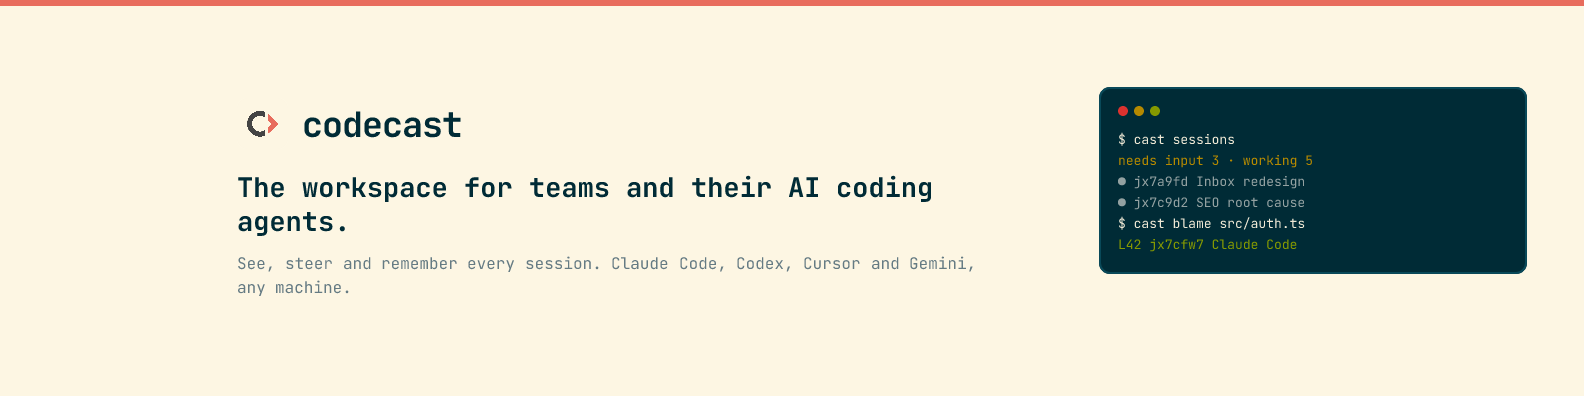
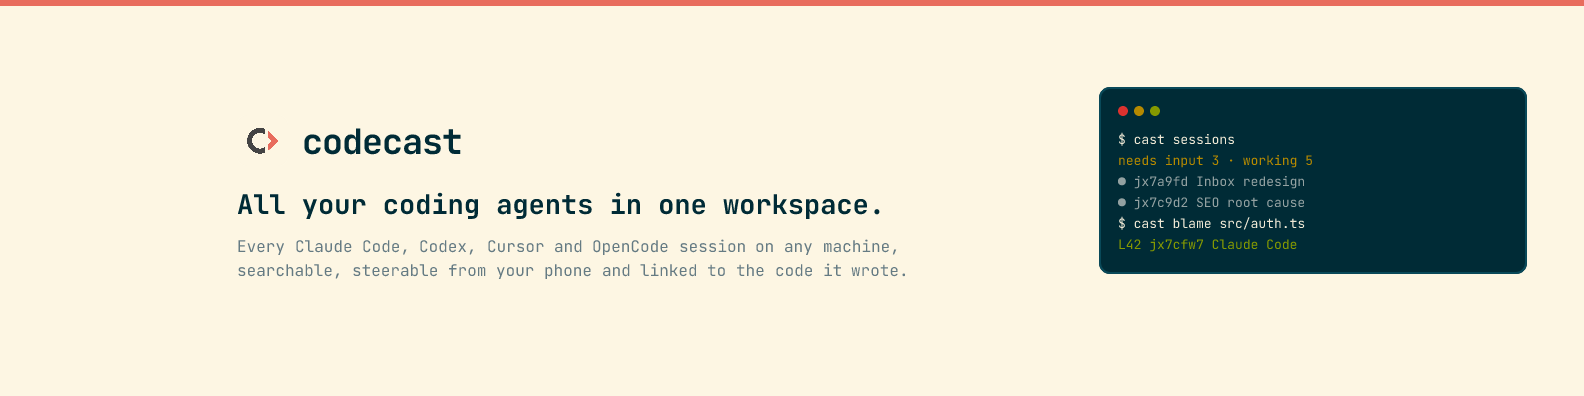
feat(web): marketing pages and public assets

Changed region(s): [[0.1547, 0.4545, 0.6187, 0.7576], [0.1547, 0.2727, 0.3093, 0.3939]]

diff --git a/packages/web/app/(marketing)/page.tsx b/packages/web/app/(marketing)/page.tsx
@@ -198,7 +198,7 @@ export default function LandingPage() {
           </h1>
 
           <p className="text-[15px] leading-[1.75] mb-8 lg:-mx-24" style={{ color: '#657b83' }}>
-            Every session from <span className="whitespace-nowrap"><Highlight color="amber">Claude Code</Highlight>,</span> <span className="whitespace-nowrap"><Highlight color="green">Codex</Highlight>,</span> <span className="whitespace-nowrap"><Highlight color="blue">Cursor</Highlight>,</span> <Highlight color="violet">OpenCode</Highlight> and <Highlight color="cyan">pi</Highlight>, on any machine, in one place you can search and steer from your phone, each linked to the code it wrote. Bring your team in and your agents work beside you in chat, calls, tasks, docs and pull requests.
+            <span className="whitespace-nowrap"><Highlight color="amber">Claude Code</Highlight>,</span> <span className="whitespace-nowrap"><Highlight color="green">Codex</Highlight>,</span> <span className="whitespace-nowrap"><Highlight color="blue">Cursor</Highlight>,</span> <Highlight color="violet">OpenCode</Highlight> and <Highlight color="cyan">pi</Highlight>, on any machine, in one place you can search and steer from your phone, each linked to the code it wrote. Bring your team in and your agents work beside you in <span className="whitespace-nowrap"><Highlight color="rose">chat</Highlight>,</span> <span className="whitespace-nowrap"><Highlight color="blue">calls</Highlight>,</span> <span className="whitespace-nowrap"><Highlight color="green">tasks</Highlight>,</span> <Highlight color="violet">docs</Highlight> and <span className="whitespace-nowrap"><Highlight color="amber">pull requests</Highlight>.</span>
           </p>
           <div className="max-w-xl mx-auto mb-2">
             <div className="relative">

diff --git a/packages/web/app/(marketing)/TourFilm.tsx b/packages/web/app/(marketing)/TourFilm.tsx
@@ -3,12 +3,14 @@
 import { useRef, useState } from "react";
 import { track } from "@/lib/analytics";
 import { useWatchEffect } from "@/hooks/useWatchEffect";
+import { loadCastPlayer } from "@/lib/loadCastPlayer";
+import { MEDIA_ORIGIN } from "@codecast/shared/contracts/castPlayer";
 import { DOTS } from "./chapterDots";
 
 // The hand drawn tour (videos/codecast-explainer), hosted on media.codecast.sh
 // and played by the same <cast-player> published pages use. One chapter per
 // file; the player runs them back to back as one film.
-const MEDIA = "https://media.codecast.sh/media/";
+const MEDIA = `${MEDIA_ORIGIN}/media/`;
 const TOUR_CHAPTERS = [
[2 lines of base64/hex data omitted]
@@ -35,16 +37,6 @@ type CastPlayerEl = HTMLElement & {
 
 // The one film on the page. Links further down ("watch this part") reach it here.
 let film: CastPlayerEl | null = null;
-
-// The element's code, served same-origin by plugins/castPlayerScript.ts. The
-// element upgrades itself whenever the script lands, before or after mount.
-function loadCastPlayer() {
-  if (customElements.get("cast-player") || document.querySelector('script[src="/cast-player.js"]')) return;
-  const s = document.createElement("script");
-  s.src = "/cast-player.js";
-  s.async = true;
-  document.head.appendChild(s);
-}
 
 function clock(t: number): string {
   return `${Math.floor(t / 60)}:${String(Math.floor(t % 60)).padStart(2, "0")}`;

diff --git a/packages/web/app/(marketing)/features/catalog.ts b/packages/web/app/(marketing)/features/catalog.ts
@@ -36,6 +36,9 @@ export const FEATURE_DEEP_DIVES: FeatureDeepDive[] = [
   { slug: "memory", snippet: "memory", name: "Team memory", color: "#6c71c4",
     title: "Team memory: every agent reads what every other agent learned",
     dek: "Search, ask and blame across every session your team has run, so an agent starts from the decisions already made instead of rediscovering them." },
+  { slug: "flows", name: "Flows", color: "#2aa198",
+    title: "Flows: every change takes the same path to production",
+    dek: "Your session's changes and the ones agents make from production signals pass the same checks, land, deploy and get watched the same way, and a measured regret-free rate decides how much an agent may merge on its own." },
   { slug: "decisions", snippet: "decide", name: "Decisions", color: "#b58900",
     title: "Decisions: one queue for the calls only you can make",
     dek: "Agents queue the choices that need a person, with the evidence attached, and keep working while you clear the queue in one sitting." },

diff --git a/packages/web/app/(marketing)/heroFly/chapters/publish.tsx b/packages/web/app/(marketing)/heroFly/chapters/publish.tsx
@@ -18,7 +18,6 @@ import { FilmSwap } from "../film";
 import { PAGE, PUBLISH, REPLY } from "../fixtures/publish";
 import { SESSIONS } from "../fixtures/story";
 
-const noop = () => {};
 const TOOL_ID = "hero-tool-publish";
 const TOOL_CALLS = [{ id: TOOL_ID, name: "Bash", input: JSON.stringify({ command: REPLY.command, description: "Publish the report as a page" }) }];
 const TOOL_RESULTS = [{ tool_use_id: TOOL_ID, content: REPLY.output }];
@@ -60,7 +59,7 @@ function Page() {
       <FramelessPage
         title={PAGE.title}
         href={`https://${PAGE.url}`}
-        actions={<PublishedPageActions slug={PAGE.slug} expanded={false} onToggleExpand={noop} />}
+        actions={<PublishedPageActions slug={PAGE.slug} />}
         height={500}
         loaded
       >

diff --git a/packages/web/app/(marketing)/heroFly/chapters/inbox.tsx b/packages/web/app/(marketing)/heroFly/chapters/inbox.tsx
@@ -72,7 +72,7 @@ export function DeskRail(_: PartProps) {
         <SidebarNavView
           isNarrow={false}
           threads={<ThreadsNavRowView isActive={false} isNarrow={false} unread={0} />}
-          feed={<FeedNavRowView team={TEAM_CHIP} isActive={false} isNarrow={false} unread={RAIL.feedUnread} />}
+          feed={<FeedNavRowView team={TEAM_CHIP} isActive={false} isNarrow={false} />}
           // The decision's queue entry opens its own room in the rail and closes it once answered, so the rows under it glide.
           questions={
             <FilmGrow at={CUES.decisionAsked} until={CUES.decisionAnswered} dur={0.45}>

diff --git a/packages/web/app/(marketing)/features/pages.tsx b/packages/web/app/(marketing)/features/pages.tsx
@@ -6,6 +6,7 @@ import TriggersPage from "./triggers/Page";
 import AgentsPage from "./agents/Page";
 import MemoryPage from "./memory/Page";
 import DecisionsPage from "./decisions/Page";
+import FlowsPage from "./flows/Page";
 import PullRequestsPage from "./pull-requests/Page";
 import CloudPage from "./cloud/Page";
 import CallsPage from "./calls/Page";
@@ -20,6 +21,7 @@ export const FEATURE_PAGES: Record<string, ComponentType> = {
   "agents": AgentsPage,
   "memory": MemoryPage,
   "decisions": DecisionsPage,
+  "flows": FlowsPage,
   "pull-requests": PullRequestsPage,
   "cloud": CloudPage,
   "calls": CallsPage,

diff --git a/packages/web/app/(marketing)/heroFly/fixtures/inbox.ts b/packages/web/app/(marketing)/heroFly/fixtures/inbox.ts
@@ -18,7 +18,7 @@ export const TEAMMATES = [
 ];
 
 /** The rail's counts: the team's feed has moved, and #eng has unread messages (chapter 9's channel). */
-export const RAIL = { feedUnread: 3, chatUnread: 1 } as const;
+export const RAIL = { chatUnread: 1 } as const;
 
 /** The rail on the inbox: no other section is the page. */
 export const RAIL_ACTIVE: SidebarNavActive = {
